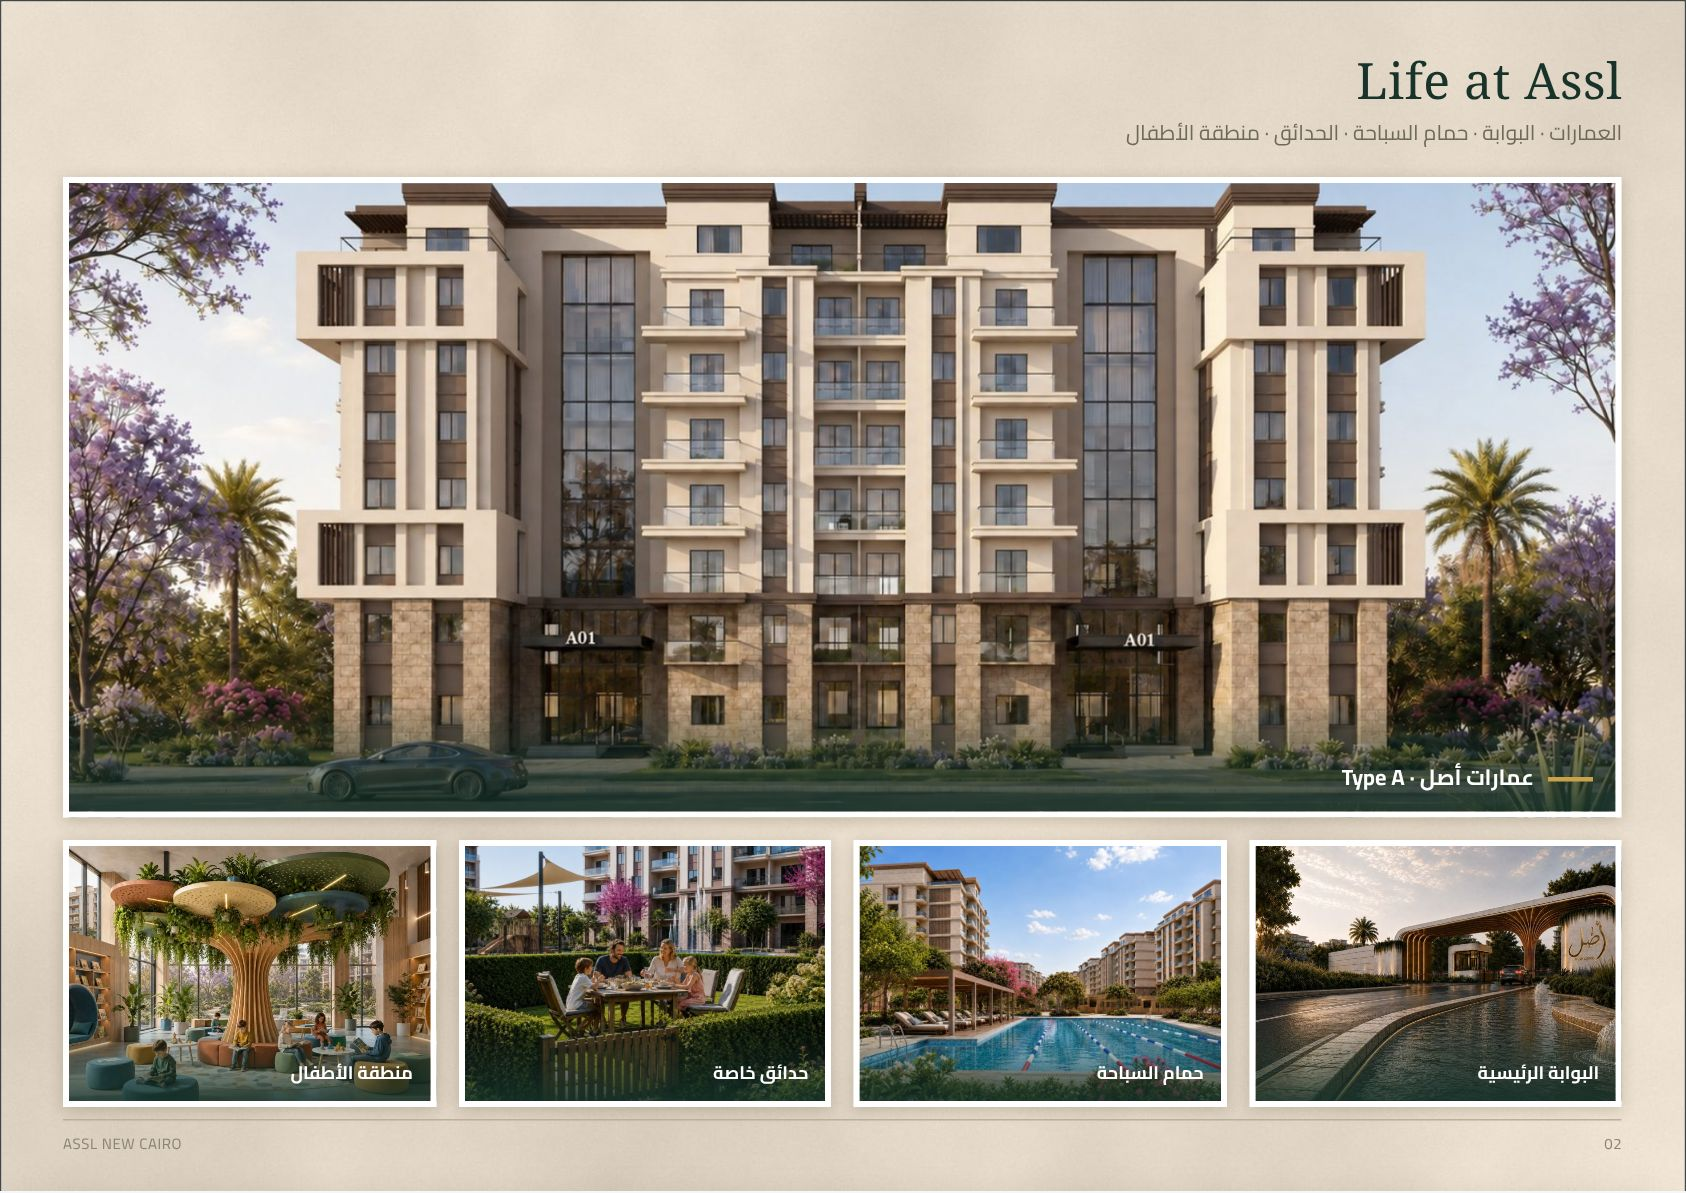
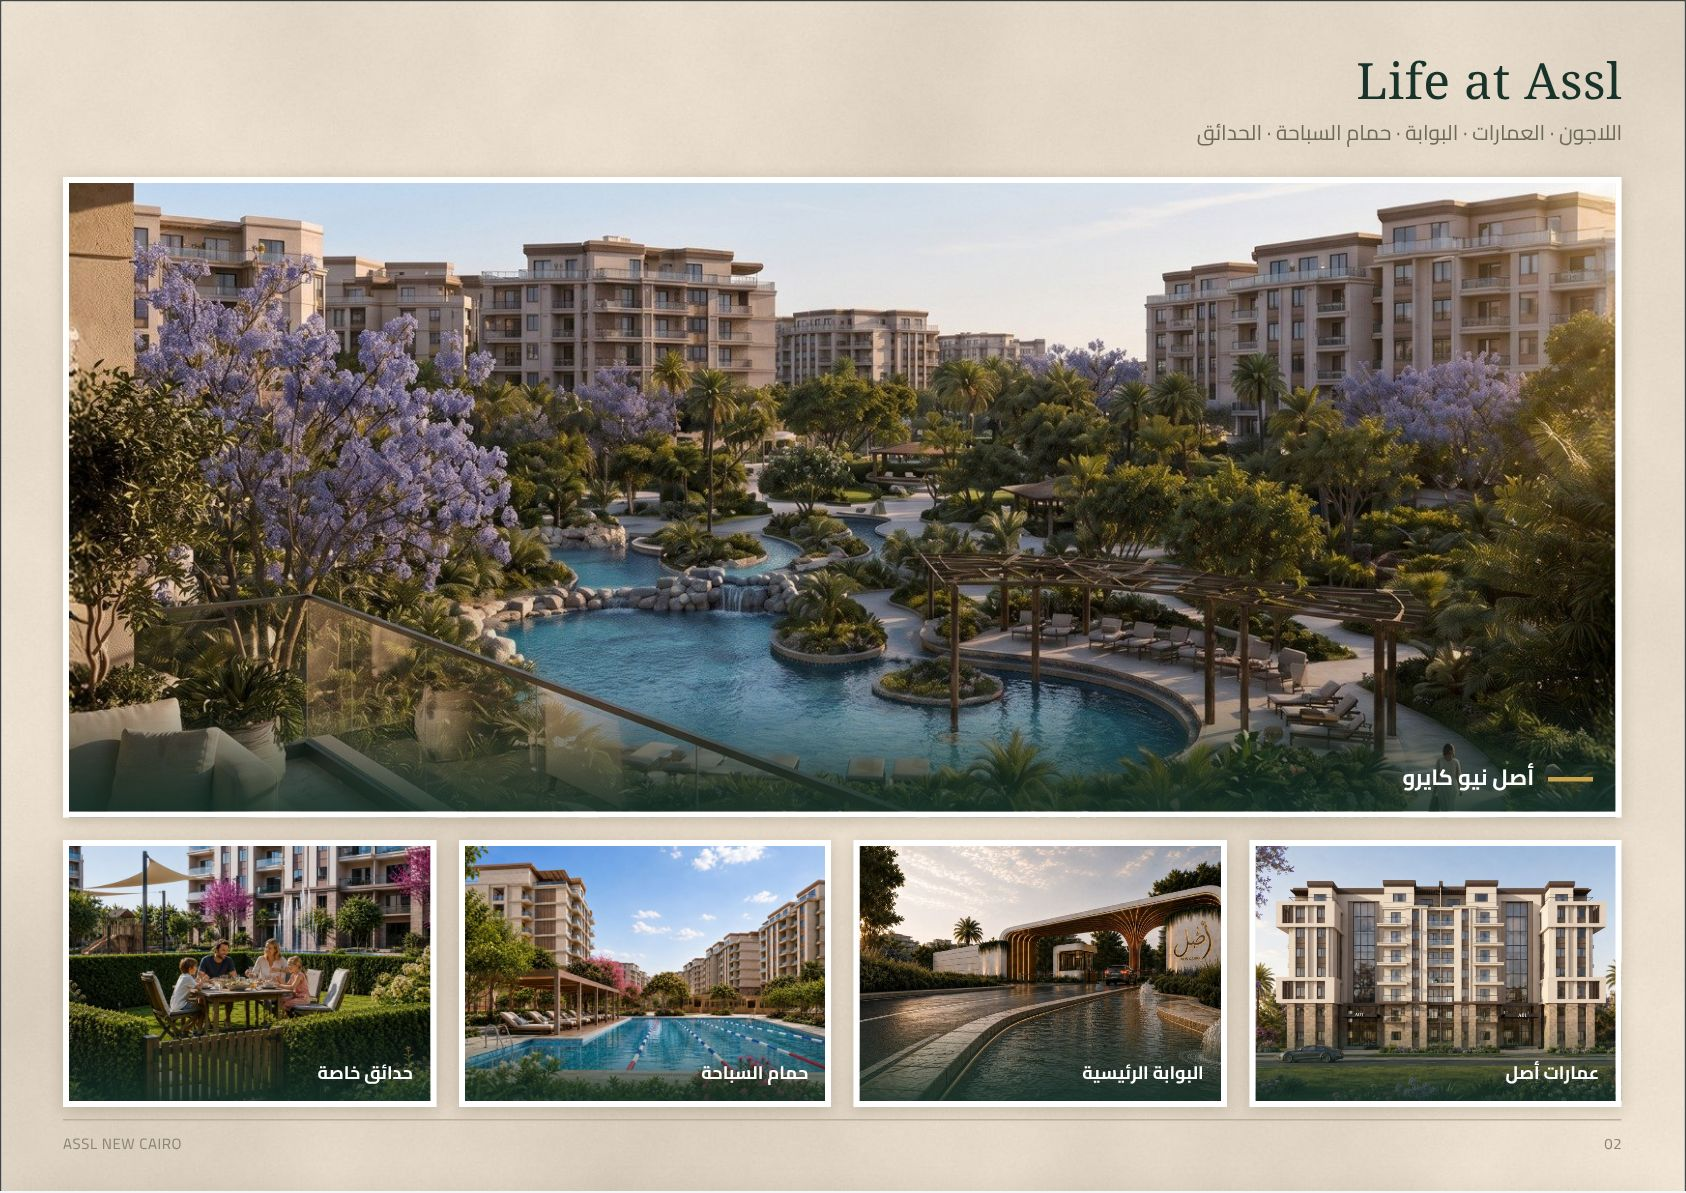
Life page: lagoon as main image, building among the small images (#11)
Claude-Session: https://claude.ai/code/session_01D7xEH891DwhXR7T5BSWwGE

diff --git a/index.html b/index.html
@@ -96,7 +96,7 @@ input[readonly]{background:#f9f8f6;color:var(--text-2);cursor:default;}
   .ph-header,.ph-table th,.ph-sub th,.ph-even td,.ph-tot td,.ph-yc{-webkit-print-color-adjust:exact;print-color-adjust:exact;}
 }
 </style>
-<link rel="stylesheet" href="offer/offer.css?v=20261107b">
+<link rel="stylesheet" href="offer/offer.css?v=20261107c">
 <script>
 // ARX logo data URIs (injected at build time)
[1 lines of base64/hex data omitted]
@@ -716,7 +716,7 @@ function exportExcel() {
 // ── INIT ──
 loadSheet().then(() => window.__offer && window.__offer.refreshOffer());
 </script>
-<script src="offer/units.js?v=20261107b"></script>
-<script src="offer/offer.js?v=20261107b"></script>
+<script src="offer/units.js?v=20261107c"></script>
+<script src="offer/offer.js?v=20261107c"></script>
 </body>
 </html>

diff --git a/offer/offer.js b/offer/offer.js
@@ -4,7 +4,7 @@
 (function () {
   const U = window.ASSL_UNITS;
   const IMG = 'offer/img/';
-  const OFFER_VER = '20261107b';
+  const OFFER_VER = '20261107c';
   const $ = id => document.getElementById(id);
   const val = id => ($(id) ? $(id).value.trim() : '');
   const FLOORS = [
@@ -123,11 +123,11 @@
     </section>`;
   }
   function lifePage(n) {
-    const smalls = [['life_gate.jpg', 'البوابة الرئيسية'], ['life_pool.jpg', 'حمام السباحة'], ['life_garden.jpg', 'حدائق خاصة'], ['life_kids.jpg', 'منطقة الأطفال']];
+    const smalls = [['life_a1.jpg', 'عمارات أصل'], ['life_gate.jpg', 'البوابة الرئيسية'], ['life_pool.jpg', 'حمام السباحة'], ['life_garden.jpg', 'حدائق خاصة']];
     const fig = (f, cap, cls = '') => `<figure class="lf ${cls}" style="background-image:url('${IMG}${f}')"><figcaption>${cap}</figcaption></figure>`;
     return `<section class="op op-paper" style="background-image:url('${IMG}paper.jpg')">
-      <div class="ph"><h2>Life at Assl</h2><div class="ph-ar">العمارات · البوابة · حمام السباحة · الحدائق · منطقة الأطفال</div></div>
-      <div class="lf-wrap">${fig('life_a1.jpg', 'عمارات أصل · Type A', 'lf-hero')}<div class="lf-grid">${smalls.map(x => fig(x[0], x[1])).join('')}</div></div>
+      <div class="ph"><h2>Life at Assl</h2><div class="ph-ar">اللاجون · العمارات · البوابة · حمام السباحة · الحدائق</div></div>
+      <div class="lf-wrap">${fig('life_lagoon.jpg', 'أصل نيو كايرو', 'lf-hero')}<div class="lf-grid">${smalls.map(x => fig(x[0], x[1])).join('')}</div></div>
       ${paperFoot(n)}</section>`;
   }
   function locationPage(n) {
